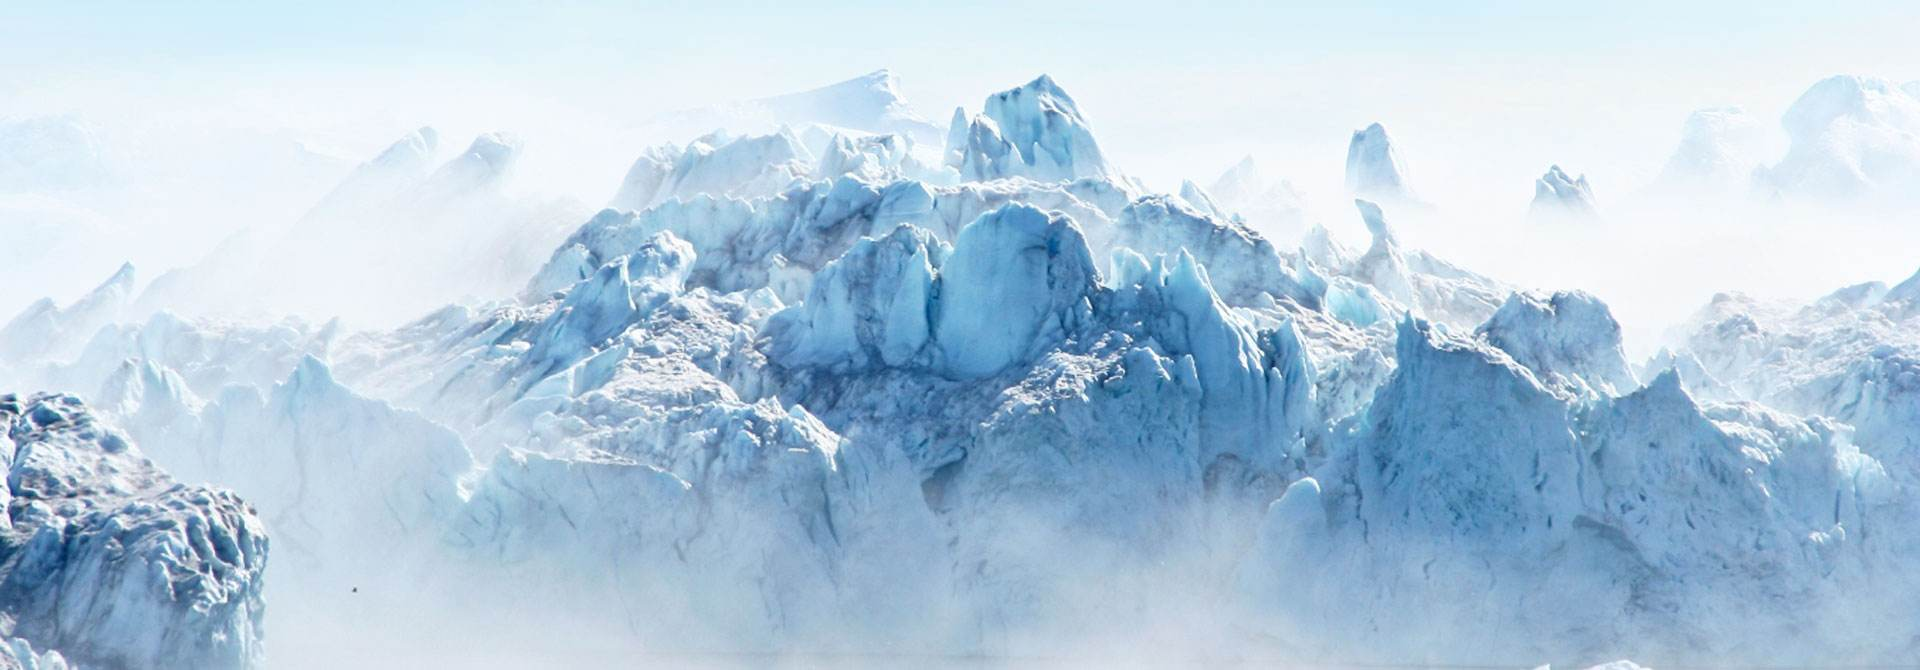
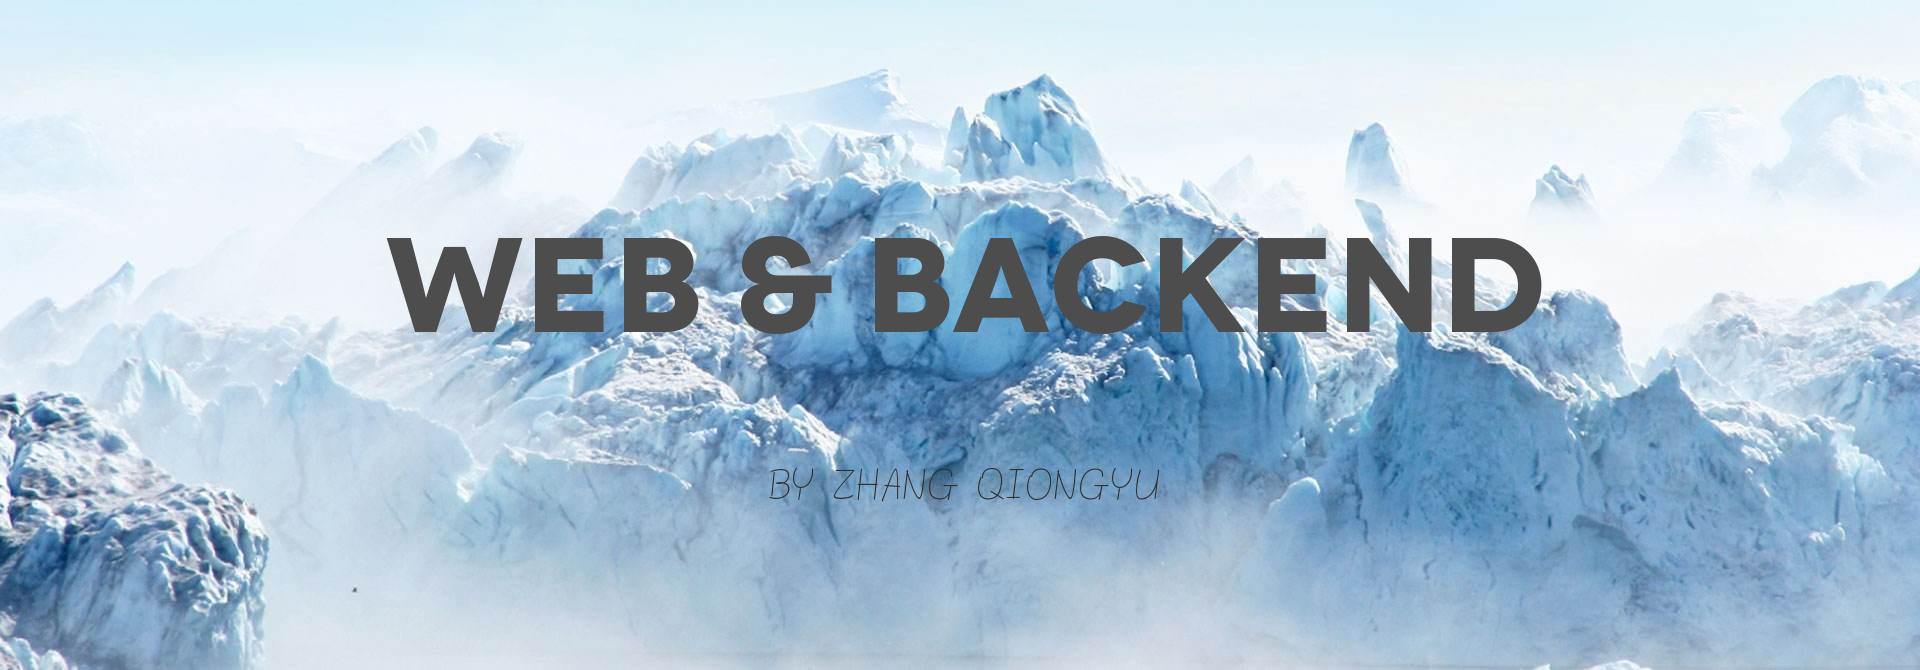
change the main page

Changed region(s): [[0.1875, 0.3582, 0.8125, 0.5075], [0.4062, 0.6866, 0.5938, 0.7463]]

diff --git a/index.html b/index.html
@@ -151,10 +151,8 @@
 <body>
 	
 	<header>
-		<div style="height: 50%; position: absolute; top: 25%;">
-			<!--h1>
-			WEB & BACK END
-			</h1-->
+		<div style="height: 50px; width: 100%; position: absolute; top: 25%; text-align: center;">
+			<!--h1>WEB</h1-->
 		</div>
 		
 	</header>
@@ -184,7 +182,7 @@
 	<footer>
 		<h2>Contact me</h2>
 		<!--div-->
-		<a href="https://www.baidu.com" title="Facebook" target="blank">
+		<a href="https://www.facebook.com/profile.php?id=100010941015904" title="Facebook" target="blank">
 			<img class="contact" src="./image/facebook.jpg">
 		</a>
 		&nbsp;&nbsp;
